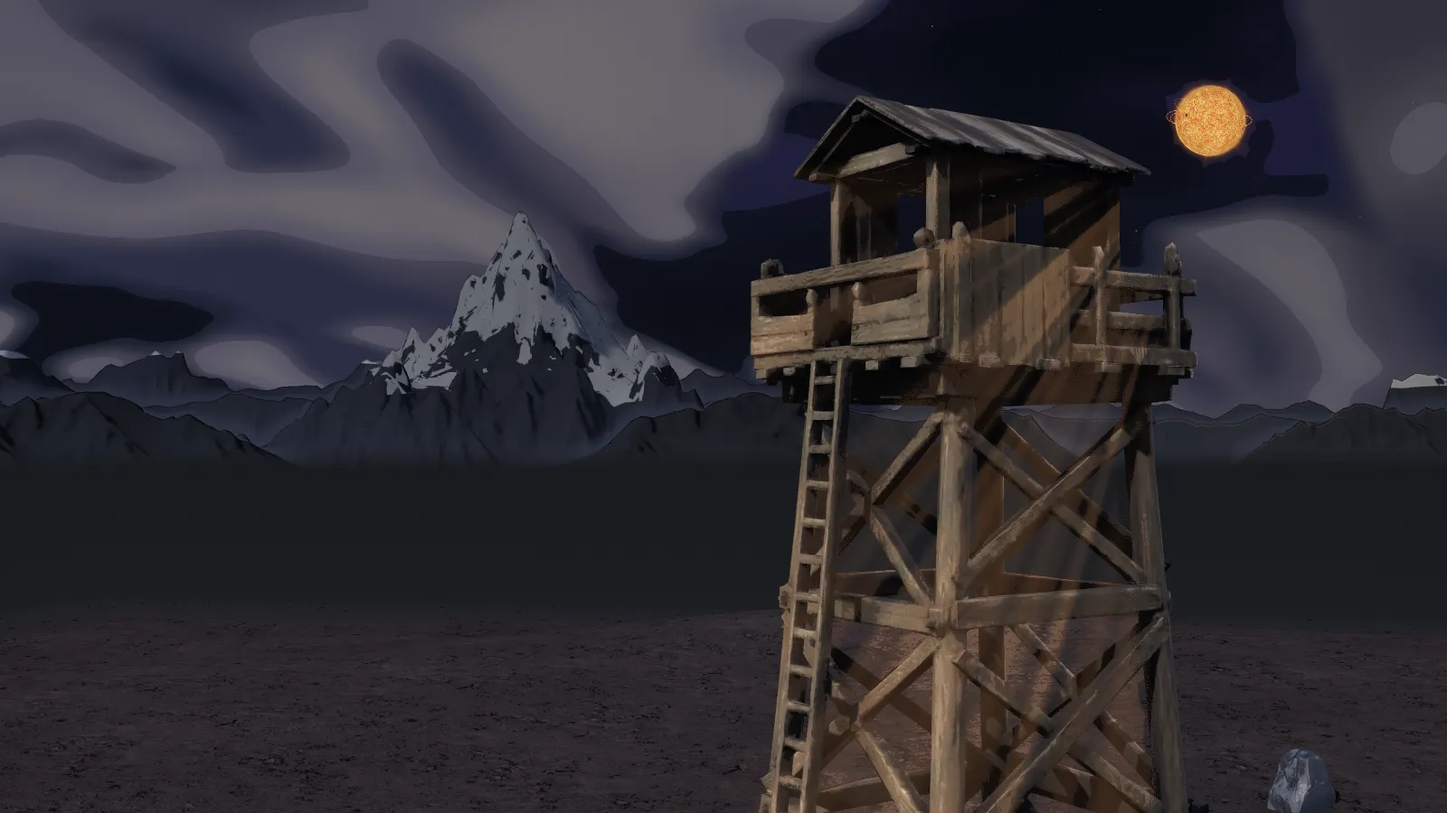
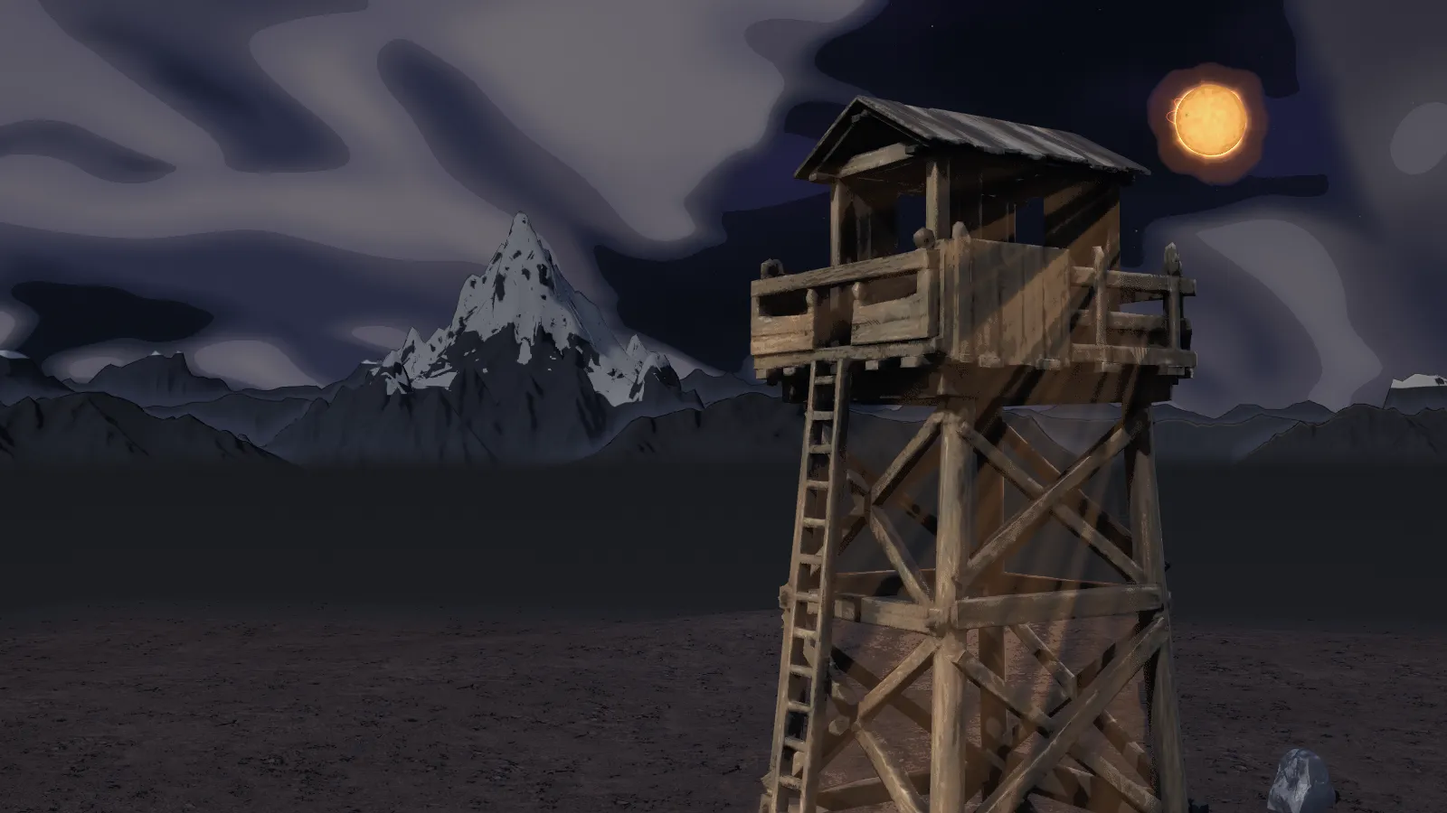
Make the star hot, glowing and slightly unstable
The star read as a muted, tan-orange mottled ball: its granules aliased into
speckle, its prominences beaded, and nothing glowed. Its photosphere now runs
from a yellow core to a deep orange-red limb inside one band of the grade's cel
step, so the surface never posterises. The corona plane carries a bright aura
at the limb over a round amber glow out to about two radii, bright enough to
clear the night's first band so its edge is a clean circle. Its light breathes
on irregular noise, the glow's edge boils and leans toward a slowly wandering
side, the surface churns faster, and the prominences are soft red arcs that
flare and fade, faint across the disc. All of it runs on the celestial clock,
so reduced motion holds it still (SOLAR_LOOK, solarUnrest). Framing keeps the
glow's furthest reach (SOLAR_GLOW_RADIUS) clear of the text and The watch's
crests. The share card is re-rendered.

Changed region(s): [[0.7812, 0.0622, 0.875, 0.2489]]

diff --git a/src/scene/solar-body.js b/src/scene/solar-body.js
@@ -20,9 +20,68 @@ export const SOLAR_QUALITY = Object.freeze({
   balanced: Object.freeze({ detail: 2, loops: 6 }),
   low: Object.freeze({ detail: 1, loops: 0 }),
 });
+// The star's look: a hot, yellow-white core to a deep orange-red limb, kept in
+// one band of the grade's cel step so the surface never posterises; a bright
+// aura close to the limb (aura x exp(-auraFalloff x radii past it)) over a
+// round glow out to `reach` radii (glow, easing by `falloff`), bright enough
+// throughout to clear the night sky's first cel band, so the band's edge is a
+// clean circle rather than a ragged plateau; both lean `lean` toward a
+// slowly wandering side; and a slight unrest: its light breathes by
+// up to `breath` on irregular noise (`breathRate` per second), its limb boils
+// by `boil` radii and its surface churns at `churn`. The corona plane is
+// `plane` radii across. All of it runs on the celestial clock, so reduced
+// motion holds it still.
+export const SOLAR_LOOK = Object.freeze({
+  core: Object.freeze([1, 0.97, 0.62]),
+  rim: Object.freeze([1, 0.36, 0.05]),
+  halo: Object.freeze({
+    aura: 0.4,
+    auraFalloff: 6,
+    glow: 0.18,
+    falloff: 1.5,
+    reach: 1.85,
+    lean: 0.25,
+  }),
+  breath: 0.1,
+  breathRate: 0.5,
+  leanRate: 0.03,
+  boil: 0.04,
+  churn: 0.07,
+  plane: 7,
+});
+// The glow's furthest reach in world units: its round edge, wobbled by the
+// boiling limb and shifted by the lean at their most (framing.test keeps it
+// clear of the text and of The watch's crests).
+export const SOLAR_GLOW_RADIUS =
+  SOLAR_RADIUS * (SOLAR_LOOK.halo.reach + 4 * SOLAR_LOOK.boil + 0.08 * SOLAR_LOOK.halo.lean);
 export function celestialTier(profile = {}) {
   return SOLAR_QUALITY[profile.tier] ? profile.tier : "high";
 }
+// Smooth 1D value noise, 0..1, from a seeded lattice: irregular, never periodic.
+function wander(x, seed) {
+  const i = Math.floor(x),
+    f = x - i,
+    u = f * f * (3 - 2 * f),
+    h = (n) => {
+      const v = Math.sin((n + seed * 17.13) * 127.1) * 43758.5453;
+      return v - Math.floor(v);
+    };
+  return h(i) + (h(i + 1) - h(i)) * u;
+}
+// The star's unrest at celestial time `time`: its light's factor (1 +- breath)
+// and the halo's lean, a vector up to `lean` long that slowly turns.
+export function solarUnrest(time = 0, look = SOLAR_LOOK) {
+  const b =
+      0.65 * wander(time * look.breathRate, 1) + 0.35 * wander(time * look.breathRate * 2.3, 2),
+    angle = Math.PI * 4 * wander(time * look.leanRate, 3),
+    reach = look.halo.lean * (0.5 + 0.5 * wander(time * look.leanRate * 1.7, 4));
+  return {
+    breath: 1 + look.breath * (2 * b - 1),
+    lean: [Math.cos(angle) * reach, Math.sin(angle) * reach],
+  };
+}
+const glsl = (value) => (Number.isInteger(value) ? value.toFixed(1) : String(value));
+const vec3 = (values) => `vec3(${values.map(glsl).join(",")})`;
 export function createCelestialClock() {
   let previous = null,
     time = 0,
@@ -86,29 +145,31 @@ void main() {
 const SURFACE_FRAGMENT = `
 uniform float uTime;
 uniform float uDetail;
+uniform float uBreath;
 varying vec3 vSurface;
 varying vec3 vViewNormal;
 varying vec3 vViewPosition;
 ${NOISE}
 void main() {
   vec3 p=normalize(vSurface);
-  float t=uTime*.022;
+  float t=uTime*${glsl(SOLAR_LOOK.churn)};
   vec3 flow=vec3(noise3(p*3.1+vec3(t,0,0)),
                  noise3(p*3.1+vec3(11,t*.7,0)),
                  noise3(p*3.1+vec3(0,23,t*.5)))-.5;
   vec3 q=p+flow*.09;
   float broad=noise3(q*8.0+vec3(0,t*.18,0));
   float footprint=length(fwidth(q))*18.0;
-  float resolved=1.0-smoothstep(.8,2.4,footprint);
+  // Granules only where a cell spans a few pixels: finer, they would only speckle.
+  float resolved=1.0-smoothstep(.25,.6,footprint);
   float granule=.5;
   if(uDetail>1.5 && resolved>.01) {
     float cell=cells(q*18.0);
     granule=mix(.5,1.0-smoothstep(.24,.78,cell),resolved);
   }
   float fine=.5;
-  if(uDetail>2.5) fine=mix(.5,noise3(q*95.0),1.0-smoothstep(.22,.8,footprint));
+  if(uDetail>2.5) fine=mix(.5,noise3(q*95.0),1.0-smoothstep(.04,.12,footprint));
   float network=noise3(q*17.0+vec3(t*.1,0,0));
-  float heat=.57+.24*granule+.23*broad+.06*fine;
+  float heat=.7+.12*granule+.1*broad+.03*fine;
   // Stable active regions rotate with the sphere, rather than sliding over it.
   float spot=0.0, facula=0.0;
   vec3 s1=normalize(vec3(.64,.24,.72));
@@ -117,17 +178,18 @@ void main() {
   float d1=length(p-s1)/.105, d2=length(p-s2)/.064, d3=length(p-s3)/.082;
   float d=min(d1,min(d2,d3));
   float umbra=1.0-smoothstep(.27,.53,d);
-  float penumbra=(1.0-smoothstep(.55,1.3,d))*(.62+.38*noise3(p*140.0));
-  spot=max(umbra*.79,penumbra*.45);
+  float penumbra=(1.0-smoothstep(.55,1.3,d))*(.62+.38*noise3(p*40.0));
+  spot=max(umbra*.5,penumbra*.22);
   facula=exp(-pow((d-1.7)*1.8,2.0))*.12;
   float mu=clamp(dot(normalize(vViewNormal),normalize(-vViewPosition)),0.0,1.0);
   float limb=.39+.61*pow(mu,.63);
-  vec3 color=mix(vec3(1.0,.25,.038),vec3(1.0,.85,.49),smoothstep(.35,1.04,heat));
-  color *= (heat*1.48+facula)*limb*(1.0-spot);
-  color += vec3(.16,.037,.004)*pow(network,7.0)*(1.0-spot);
+  // A hot, yellow-white core to a deep orange-red limb; the light breathes.
+  vec3 color=mix(${vec3(SOLAR_LOOK.rim)},${vec3(SOLAR_LOOK.core)},smoothstep(.42,1.0,heat)*(.55+.45*mu));
+  color *= (heat*1.5+facula)*limb*(1.0-spot)*uBreath;
+  color += vec3(.16,.037,.004)*pow(network,7.0)*.5*(1.0-spot);
   // Compress emission locally: the scene intentionally uses NoToneMapping.
-  // Leave headroom for the existing bloom and parchment highlight grade.
-  color *= .93*(1.0-exp(-color.r*2.1))/max(color.r,.001);
+  // Leave a little headroom for the existing bloom and parchment highlight grade.
+  color *= .99*(1.0-exp(-color.r*2.6))/max(color.r,.001);
   gl_FragColor=vec4(color,1.0);
   #include <tonemapping_fragment>
   #include <colorspace_fragment>
@@ -135,21 +197,34 @@ void main() {
 `;
 const CORONA_FRAGMENT = `
 uniform float uTime;
+uniform float uBreath;
+uniform vec2 uLean;
 varying vec2 vUv;
 ${NOISE}
 void main() {
-  vec2 p=(vUv-.5)*3.6;
+  // p in solar radii across a plane SOLAR_LOOK.plane radii wide.
+  vec2 p=(vUv-.5)*${glsl(SOLAR_LOOK.plane)};
   float r=length(p), a=atan(p.y,p.x);
   float edge=max(fwidth(r),.003);
   float outside=smoothstep(1.0-edge,1.0+edge,r);
-  float h=max(0.0,r-1.0);
-  float weave=noise3(vec3(p*8.0,uTime*.022));
-  float rays=.46+.23*sin(a*7.0+.4)+.17*sin(a*13.0-1.4)+.10*sin(a*29.0+weave);
-  float inner=exp(-h*26.0)*.62;
-  float stream=exp(-h*(11.0-rays*5.0))*(.13+.28*pow(max(0.0,rays),3.0));
+  // The limb boils: the glow's inner edge wanders a little with angle and time.
+  float boil=${glsl(SOLAR_LOOK.boil)}*(2.0*noise3(vec3(cos(a)*3.0,sin(a)*3.0,uTime*.35))-1.0);
+  float h=max(0.0,r-1.0-boil);
+  float weave=noise3(vec3(p*8.0,uTime*.05));
+  // Streamers drift and flicker on time noise, never a steady beat.
+  float drift=2.0*noise3(vec3(uTime*.06,3.1,0.0));
+  float flick=.7+.6*noise3(vec3(cos(a)*2.0,sin(a)*2.0,uTime*.45));
+  float rays=.46+.23*sin(a*7.0+.4+drift)+.17*sin(a*13.0-1.4-drift*.7)+.10*sin(a*29.0+weave);
+  // A bright aura at the limb over a round amber glow whose soft edge wobbles a little, leaning
+  // toward a slowly wandering side.
+  float lean=1.0+dot(p/max(r,1e-4),uLean);
+  float glow=${glsl(SOLAR_LOOK.halo.glow)}*(.75+.25*exp(-h*${glsl(SOLAR_LOOK.halo.falloff)}))*(1.0-smoothstep(${glsl(SOLAR_LOOK.halo.reach - 0.22)},${glsl(SOLAR_LOOK.halo.reach)},r-boil*4.0-.08*dot(p/max(r,1e-4),uLean)));
+  float halo=(${glsl(SOLAR_LOOK.halo.aura)}*exp(-h*${glsl(SOLAR_LOOK.halo.auraFalloff)})+glow)*lean*uBreath;
+  float inner=exp(-h*20.0)*.62*uBreath;
+  float stream=exp(-h*(9.0-rays*5.0))*(.13+.28*pow(max(0.0,rays),3.0))*flick;
   float filaments=pow(.5+.5*sin(a*93.0+weave*3.0),9.0)*exp(-h*18.0)*.055;
-  float alpha=(inner+stream+filaments)*outside*(1.0-smoothstep(1.35,1.8,r));
-  gl_FragColor=vec4(mix(vec3(1.0,.39,.075),vec3(1.0,.68,.3),exp(-h*17.0)),alpha);
+  float alpha=(halo+inner+stream+filaments)*outside*(1.0-smoothstep(${glsl(SOLAR_LOOK.plane / 2 - 0.6)},${glsl(SOLAR_LOOK.plane / 2)},r));
+  gl_FragColor=vec4(mix(vec3(1.0,.46,.1),vec3(1.0,.76,.42),exp(-h*8.0)),alpha);
   #include <colorspace_fragment>
 }
 `;
@@ -166,8 +241,12 @@ uniform vec2 uResolution;
 varying float vSide;
 varying float vProgress;
 varying float vPhase;
+varying float vOver;
 void main() {
   vec4 view=modelViewMatrix*vec4(position,1.0);
+  // Across the disc a loop is a faint filament, not a bright scratch.
+  vec3 c=(modelViewMatrix*vec4(0.0,0.0,0.0,1.0)).xyz, v=normalize(c), d=view.xyz-c;
+  vOver=step(dot(d,v),0.0)*(1.0-smoothstep(${glsl(SOLAR_RADIUS * 0.92)},${glsl(SOLAR_RADIUS * 1.02)},length(d-dot(d,v)*v)));
   vec3 tangent=mat3(modelViewMatrix)*aTangent;
   vec2 side=normalize(vec2(-tangent.y,tangent.x)+vec2(.00001));
   gl_Position=projectionMatrix*view;
@@ -180,14 +259,20 @@ uniform float uTime;
 varying float vSide;
 varying float vProgress;
 varying float vPhase;
+varying float vOver;
+// Smooth 1D value noise, 0..1.
+float wander(float x) {
+  float i=floor(x), f=fract(x);
+  f=f*f*(3.0-2.0*f);
+  return mix(fract(sin(i*127.1)*43758.5453),fract(sin((i+1.0)*127.1)*43758.5453),f);
+}
 void main() {
-  float cycle=.5+.5*sin(uTime*.12+vPhase);
-  float envelope=.25+.75*smoothstep(.08,.9,cycle);
-  float threads=.62+.38*sin(vProgress*46.0-uTime*.8+vPhase);
+  // Each loop flares and fades on its own irregular clock: soft, continuous arcs.
+  float envelope=smoothstep(.45,.9,wander(uTime*.07+vPhase*5.3));
   float width=exp(-vSide*vSide*3.4);
   float ends=smoothstep(0.0,.035,vProgress)*(1.0-smoothstep(.965,1.0,vProgress));
-  vec3 color=mix(vec3(1.0,.74,.34),vec3(1.0,.19,.02),pow(abs(vSide),.6));
-  gl_FragColor=vec4(color,width*ends*envelope*threads*.94);
+  vec3 color=mix(vec3(1.0,.52,.2),vec3(1.0,.16,.02),pow(abs(vSide),.6));
+  gl_FragColor=vec4(color,width*ends*envelope*.7*(1.0-.8*vOver));
   #include <colorspace_fragment>
 }
 `;
@@ -267,10 +352,12 @@ export function createSolarBody({ parent, camera, position, profile = {} }) {
   root.add(rotating);
   parent.add(root);
   const uTime = { value: 0 },
-    uDetail = { value: 3 };
+    uDetail = { value: 3 },
+    uBreath = { value: 1 },
+    uLean = { value: new Vector2() };
   const surfaceMaterial = new ShaderMaterial({
     name: "SolarPhotosphere",
-    uniforms: { uTime, uDetail },
+    uniforms: { uTime, uDetail, uBreath },
     vertexShader: SURFACE_VERTEX,
     fragmentShader: SURFACE_FRAGMENT,
     transparent: true,
@@ -285,7 +372,7 @@ export function createSolarBody({ parent, camera, position, profile = {} }) {
   rotating.add(surface);
   const coronaMaterial = new ShaderMaterial({
     name: "SolarCorona",
-    uniforms: { uTime },
+    uniforms: { uTime, uBreath, uLean },
     vertexShader: CORONA_VERTEX,
     fragmentShader: CORONA_FRAGMENT,
     transparent: true,
@@ -296,7 +383,7 @@ export function createSolarBody({ parent, camera, position, profile = {} }) {
     extensions: { derivatives: true },
   });
   const corona = new Mesh(
-    new PlaneGeometry(SOLAR_RADIUS * 3.6, SOLAR_RADIUS * 3.6),
+    new PlaneGeometry(SOLAR_RADIUS * SOLAR_LOOK.plane, SOLAR_RADIUS * SOLAR_LOOK.plane),
     coronaMaterial,
   );
   corona.name = "solar-corona";
@@ -349,6 +436,9 @@ export function createSolarBody({ parent, camera, position, profile = {} }) {
     update({ elapsedSeconds = 0, reducedMotion = false } = {}) {
       if (disposed) return false;
       uTime.value = clock.tick(elapsedSeconds, reducedMotion);
+      const unrest = solarUnrest(uTime.value);
+      uBreath.value = unrest.breath;
+      uLean.value.set(...unrest.lean);
       rotating.rotation.set(0.2, uTime.value * 0.011, -0.12);
       if (camera) {
         camera.getWorldQuaternion(corona.quaternion);

diff --git a/tools/og-card.html b/tools/og-card.html
@@ -14,7 +14,7 @@
     magick <scratch>\og-raw.png -alpha off -dither FloydSteinberg -define dither:diffusion-amount=58%
       -remap <scratch>\og-pal.png -strip -define png:compression-level=9 PNG8:public/og.png
   The dither hides the palette's banding in the night's gradients: use the largest amount that
-  keeps the file at or under 300 KB (59% gave 297 KB with the Meshy mountains; the size does not grow evenly with the amount, so try the neighbours). test/hosting.test.mjs
+  keeps the file at or under 300 KB (58% gave 298 KB with the Meshy mountains and the glowing star; the size does not grow evenly with the amount, so try the neighbours). test/hosting.test.mjs
   holds public/og.png opaque, exactly 1200x630 and at most 300 KB. Re-scrape it with LinkedIn Post
   Inspector after the release.
 -->

diff --git a/docs/GLOSSARY.md b/docs/GLOSSARY.md
@@ -98,7 +98,7 @@ The terms the code and these docs use, in alphabetical order. A word with severa
 | Stand-in (detached)      | A hidden mesh that links a new program off the draw path, so a visible change never blocks on compilation.                                                                                                                                                                                                                                                                                                                                                                                                                                                                                                                                                                                                              | terrain-build.js, light-shafts.js                                                                                    |
 | Stand-in (lantern)       | The code-built iron post lantern in the tree assembly (`tree-lantern`), shown until the supplied lantern commits and kept if it fails.                                                                                                                                                                                                                                                                                                                                                                                                                                                                                                                                                                                  | architecture.js, [lantern.js](../src/scene/lantern.js)                                                               |
 | Stand-in (ranges)        | The empty geometry the film shows behind the scene until the ranges land, and keeps if they fail.                                                                                                                                                                                                                                                                                                                                                                                                                                                                                                                                                                                                                       | hill-silhouette.js                                                                                                   |
-| Star                     | The visible warm disc with its prominences, at `SUN_POSITION`; not a light. The light shafts' star rays come from it. The code names it the sun (`SUN_POSITION`); [Style](STYLE.md) mostly says the sun, and the star in Light shafts.                                                                                                                                                                                                                                                                                                                                                                                                                                                                                  | [solar-body.js](../src/scene/solar-body.js), world.js `SUN_POSITION`                                                 |
+| Star                     | The visible warm disc with its prominences and glow, at `SUN_POSITION`; not a light. The light shafts' star rays come from it. In film it carries the sky's depth code, so the grade's cel step and ink treat it as sky. The code names it the sun (`SUN_POSITION`); [Style](STYLE.md) mostly says the sun, and the star in Light shafts.                                                                                                                                                                                                                                                                                                                                                                               | [solar-body.js](../src/scene/solar-body.js), world.js `SUN_POSITION`                                                 |
 | Stars                    | The star field: 4200 on high, 2600 on balanced. In film each star dims behind the cloud bank its view ray meets on the sky shell, and no star draws under 2 device px (`STAR_MIN_FOOTPRINT`).                                                                                                                                                                                                                                                                                                                                                                                                                                                                                                                           | [starfield.js](../src/scene/starfield.js) `STAR_COUNTS`                                                              |
 | Startup tier             | The tier chosen once at start (`initialTier`), from `?quality=` or the device; main.js computes it from the probe's limits before requesting the scene.                                                                                                                                                                                                                                                                                                                                                                                                                                                                                                                                                                 | quality.js `selectSceneQualityTier`                                                                                  |
 | Static path              | A visit that keeps the title card: a static gate, a failed bundle or initialization, the scene declining its own low tier (`initHomeScene()` returns `false`), or a tower or tree that cannot load.                                                                                                                                                                                                                                                                                                                                                                                                                                                                                                                     | main.js, index.js                                                                                                    |

diff --git a/docs/TESTING.md b/docs/TESTING.md
@@ -49,7 +49,7 @@ Tests that build or bundle write under `.tmp-preview-review/` (ignored by Git), 
 | [scene-quality](../test/scene-quality.test.mjs)               | Tier selection, `?quality=` and `sceneDebug` parsing, profiles, the governor's steps, recovery, back-off and fixed tier, data saver, the touch pixel-ratio cap, composition profiles, the resolution step, sampling holds                                                                                                                                                                                                                                                                                                                                                                                                                                                    |
 | [scene-runtime](../test/scene-runtime.test.mjs)               | The frame scheduler, refresh estimation and cadence, reduced motion, render holds, still mode, resize coalescing, the pixel-ratio watcher, resource disposal, the subsystem registry, rendering's lifecycle, static shadows, a lost context                                                                                                                                                                                                                                                                                                                                                                                                                                  |
 | [scene-visitor-pause](../test/scene-visitor-pause.test.mjs)   | The visitor pause: settling a dissolve, resuming without a time jump, a pause on the capture frame, one still frame on resize, composing with dialog holds, the stored preference, disposal                                                                                                                                                                                                                                                                                                                                                                                                                                                                                  |
-| [sky](../test/sky.test.mjs)                                   | The star and its prominences, the star field and its two-pixel minimum footprint, the nebula and clouds, the cloud reshaping (none over the reference banks, no density lift in the roof's lane, decisive banks with lanes only inside them, a coordinate map that never folds, the text guard's exact source and its density-only clearing), stars hidden behind the cloud banks through the shell's lent uniforms, the sky shell in and out of film, depth layers                                                                                                                                                                                                          |
+| [sky](../test/sky.test.mjs)                                   | The star and its prominences, its look and glow (`SOLAR_LOOK`, `SOLAR_GLOW_RADIUS`) and its gentle, irregular unrest held by reduced motion, the star field and its two-pixel minimum footprint, the nebula and clouds, the cloud reshaping (none over the reference banks, no density lift in the roof's lane, decisive banks with lanes only inside them, a coordinate map that never folds, the text guard's exact source and its density-only clearing), stars hidden behind the cloud banks through the shell's lent uniforms, the sky shell in and out of film, depth layers                                                                                           |
 | [smoke-pages](../test/smoke-pages.test.mjs)                   | `.github/scripts/smoke-pages.sh`, run in Bash against a mocked `curl`                                                                                                                                                                                                                                                                                                                                                                                                                                                                                                                                                                                                        |
 | [startup-cost](../test/startup-cost.test.mjs)                 | The `babel:` User Timing names, one probe context and its reuse, shader warm-ups, the ground's flat first paint, freeing a shadow map between tiers                                                                                                                                                                                                                                                                                                                                                                                                                                                                                                                          |
 | [terrain-build](../test/terrain-build.test.mjs)               | The film terrain: rain pools, root supports and refinement, the knoll, root shading, the lazy ground shading and its compacted anchors, slicing and landing, the baked root tables against a fresh bake, litter, drips, the puddle mirror and the flame in it                                                                                                                                                                                                                                                                                                                                                                                                                |

diff --git a/docs/ASSETS.md b/docs/ASSETS.md
@@ -92,9 +92,9 @@ The tower and tree are required: without either the scene returns to the title c
 | `icon-192.png`          |   9,005 | 192×192   | RGBA                                          |
 | `icon-512.png`          |  26,321 | 512×512   | RGBA                                          |
 | `icon-maskable-512.png` |  13,398 | 512×512   | Opaque RGB                                    |
-| `og.png`                | 297,004 | 1200×630  | Share card; opaque, 224-colour palette        |
+| `og.png`                | 298,375 | 1200×630  | Share card; opaque, 224-colour palette        |
 
-`tools/og-card-backdrop.webp` (67,842 bytes, 1600×900, opaque) is the share card's backdrop: a still of the live scene's opening shot, The watch, with every page layer but the canvas hidden. It is never published (`test/hosting.test.mjs`, `test/bundle-output.test.mjs`).
+`tools/og-card-backdrop.webp` (65,662 bytes, 1600×900, opaque) is the share card's backdrop: a still of the live scene's opening shot, The watch, with every page layer but the canvas hidden. It is never published (`test/hosting.test.mjs`, `test/bundle-output.test.mjs`).
 
 ## Sources
 
@@ -126,7 +126,7 @@ Only the share card is generated in the repository. Everything else is committed
 | Scene entry and the chunks it imports statically        | under 820 KiB, exactly two files                   |                  | `bundle-output`: "scene bundle stays under the deferred-payload budget"                                     |
 | Paper grain, paper edge and the three vignettes         | 200 KiB (204,800)                                  | 182,994          | `markup-accessibility`: "three distinct transparent paper vignettes share the 200 KiB section-paper budget" |
 | Both estate maps                                        | 200 KiB (204,800)                                  | 193,610          | `bundle-output`: "estate map artwork is hashed, responsive and under 200 KiB combined"                      |
-| `public/og.png`                                         | opaque, exactly 1200×630, at most 300 KB (300,000) | 297,004          | `hosting`: "the share image is an opaque 1200x630 PNG of at most 300 KB, as its tags say"                   |
+| `public/og.png`                                         | opaque, exactly 1200×630, at most 300 KB (300,000) | 298,375          | `hosting`: "the share image is an opaque 1200x630 PNG of at most 300 KB, as its tags say"                   |
 
 Lazy scene chunks are outside the script budget. Script sizes change with every build; `npm run build:dist` prints them.
 

diff --git a/docs/STYLE.md b/docs/STYLE.md
@@ -52,6 +52,7 @@ The rules for visual, motion and typographic changes. Read them before changing 
 - Dialogs, reduced motion and a visitor pause hold the tour.
 - Close-up is an intimate branch study: fitting margin 0.83, 30° lens, roots and lantern below the frame. Root and lantern keeps camera height 0.14 so the skyline stays low on landscape phones.
 - The sun is either wholly out of frame or whole, clear of the name and unoccluded.
+- The star is hot and slightly unstable: a yellow core to a deep orange-red limb, kept in one band of the grade's cel step so the surface never posterises, with a bright aura at the limb and a round amber glow out to about two radii whose edge boils and leans toward a slowly wandering side. Its light breathes on irregular noise (±10%), its red prominences flare and fade one or two at a time and are faint across the disc, and reduced motion holds it all still (`SOLAR_LOOK` in [solar-body.js](../src/scene/solar-body.js)). The glow, out to its furthest reach (`SOLAR_GLOW_RADIUS`), stays clear of the text and of The watch's crests.
 - Framing follows the page's own hero layout. Where the name stacks above the subject (portrait screens up to 1024px wide, squares included, and landscape screens under 600px wide and over 500px tall) the subject sits below it. On landscape phones (up to 500px tall, at any width) and desktops it sits beside the name, to its right; on portrait monitors it fills the width above the name. Squarish short windows (landscape, up to 500px tall, narrower than 1.55:1) keep the subject beside the name but take the portrait shots, which keep the sun whole.
 - On landscape phones The watch lowers its camera and turns further round, so the snowy range runs between the intro and the tower; under 600px wide it lowers again, below the intro.
 - The film's phone text band shades the top of the frame only behind a name stacked above the subject; beside the subject it would dim the subject instead.

diff --git a/docs/ARCHITECTURE.md b/docs/ARCHITECTURE.md
@@ -96,7 +96,7 @@ _lazy_ marks a chunk loaded on demand.
 | `estate-sky.js`      | Film sky gradient, horizon band, the cloud field (`cloudFieldGLSL`) and its reshaping (`CLOUD_RESHAPE`)                              |
 | `celestial-field.js` | Shared nebula frame and dust                                                                                                         |
 | `starfield.js`       | Stars (`STAR_COUNTS`), hidden behind the cloud banks                                                                                 |
-| `solar-body.js`      | The star and its prominences                                                                                                         |
+| `solar-body.js`      | The star, its glow and prominences, and their unrest (`SOLAR_LOOK`)                                                                  |
 | `hill-silhouette.js` | Baseline hill ring, the rings' and the Meshy massifs' materials, loading the massifs, ranges stand-in, far plain air (`HORIZON_AIR`) |
 | `mountain-build.js`  | _lazy_ Film mountain geometry: the massifs' placements (`RANGE_PLACEMENTS`), the backdrop rings, the five-ring fallback              |
 | `light-shafts.js`    | _lazy_ Star rays and moonbeams (WebGL2)                                                                                              |
